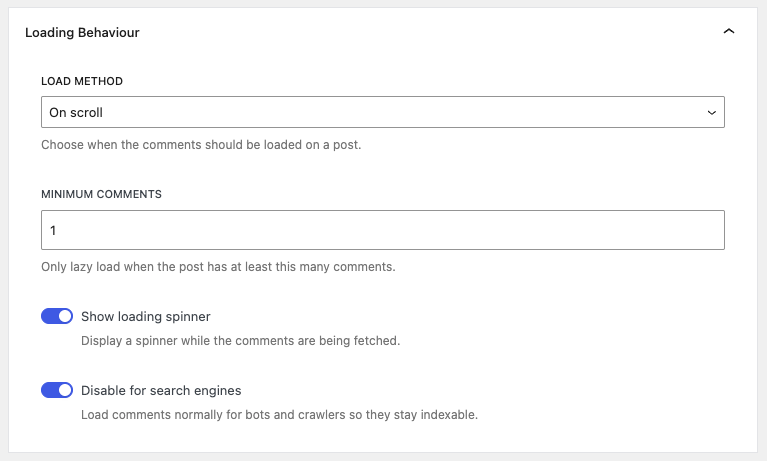
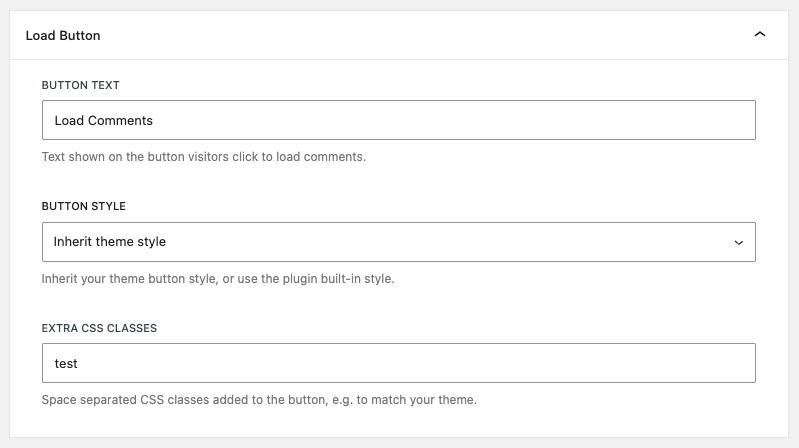
Improve: Update tabs

diff --git a/index.md b/index.md
@@ -31,6 +31,6 @@ features:
   - title: Lazy Load for Comments
     details: "The Cure for Slow Comments: Documentation for Lazy Load for Comments"
     icon: <svg id="fi_4081342" enable-background="new 0 0 512 512" height="30" viewBox="0 0 512 512" width="30" xmlns="http://www.w3.org/2000/svg"><g><path d="m436.31 107.425c-48.24-37.44-112.28-58.06-180.31-58.06-6.2 0-12.37.17-18.5.51-61.08 3.39-117.97 23.52-161.81 57.55-48.81 37.88-75.69 88.42-75.69 142.31 0 48.61 22.29 95.16 62.89 131.62-11.95 27.81-27.25 50.79-45.52 68.36-2.18 2.1-2.89 5.3-1.8 8.12 1.1 2.82 3.78 4.71 6.8 4.79.21 0 .81.01 1.78.01 10.59 0 64.83-1.51 124.87-30.79 28.04 10.11 57.71 16.05 88.47 17.75 6.13.34 12.3.51 18.51.51 68.03 0 132.07-20.63 180.31-58.07 48.81-37.88 75.69-88.42 75.69-142.3 0-53.89-26.88-104.43-75.69-142.31z" fill="#ff3e7a"></path><g><g><path d="m398.32 255.999c0 20.68-16.799 37.5-37.453 37.5-4.375 0-8.579-.75-12.484-2.14-14.532-5.16-24.969-19.06-24.969-35.36s10.437-30.2 24.969-35.36c3.905-1.39 8.11-2.14 12.484-2.14 20.654 0 37.453 16.82 37.453 37.5z" fill="#fff"></path><path d="m398.32 255.999c0 20.68-16.799 37.5-37.453 37.5-4.375 0-8.579-.75-12.484-2.14 14.532-5.16 24.969-19.06 24.969-35.36s-10.437-30.2-24.969-35.36c3.905-1.39 8.11-2.14 12.484-2.14 20.654 0 37.453 16.82 37.453 37.5z" fill="#dcecf4"></path></g><g><path d="m188.586 255.996c0 20.68-16.799 37.5-37.453 37.5-4.375 0-8.579-.75-12.484-2.14-14.532-5.16-24.969-19.06-24.969-35.36s10.437-30.2 24.969-35.36c3.905-1.39 8.11-2.14 12.484-2.14 20.654 0 37.453 16.82 37.453 37.5z" fill="#fff"></path><path d="m188.586 255.996c0 20.68-16.799 37.5-37.453 37.5-4.375 0-8.579-.75-12.484-2.14 14.532-5.16 24.969-19.06 24.969-35.36s-10.437-30.2-24.969-35.36c3.905-1.39 8.11-2.14 12.484-2.14 20.654 0 37.453 16.82 37.453 37.5z" fill="#dcecf4"></path></g><g><path d="m293.455 255.996c0 20.68-16.799 37.5-37.453 37.5-4.375 0-8.579-.75-12.484-2.14-14.532-5.16-24.969-19.06-24.969-35.36s10.437-30.2 24.969-35.36c3.905-1.39 8.11-2.14 12.484-2.14 20.654 0 37.453 16.82 37.453 37.5z" fill="#fff"></path><path d="m293.455 255.996c0 20.68-16.799 37.5-37.453 37.5-4.375 0-8.579-.75-12.484-2.14 14.532-5.16 24.969-19.06 24.969-35.36s-10.437-30.2-24.969-35.36c3.905-1.39 8.11-2.14 12.484-2.14 20.654 0 37.453 16.82 37.453 37.5z" fill="#dcecf4"></path></g></g><path d="m512 249.735c0 53.88-26.88 104.42-75.69 142.3-48.24 37.44-112.28 58.07-180.31 58.07-6.21 0-12.38-.17-18.51-.51 61.08-3.39 117.98-23.53 161.82-57.56 48.81-37.88 75.69-88.42 75.69-142.3 0-53.89-26.88-104.43-75.69-142.31-43.84-34.03-100.73-54.16-161.81-57.55 6.13-.34 12.3-.51 18.5-.51 68.03 0 132.07 20.62 180.31 58.06 48.81 37.88 75.69 88.42 75.69 142.31z" fill="#b2006e"></path></g></svg>
-    link: ./lazy-load-for-comments/general
+    link: ./lazy-load-for-comments/loading-behaviour
 ---
 

diff --git a/lazy-load-for-comments/loading-behaviour.md b/lazy-load-for-comments/loading-behaviour.md
@@ -1,12 +1,12 @@
 ---
-title: General Settings
+title: Loading Behaviour
 ---
 
-# General Settings
+# Loading Behaviour
 
-The General Settings section controls how and when comments are lazy loaded on your posts and pages. You can find it under **Comments → Lazy Load** in your WordPress admin, on the **General** tab.
+The Loading Behaviour section controls how and when comments are lazy loaded on your posts and pages. You can find it under **Comments → Lazy Load** in your WordPress admin, inside the **Loading Behaviour** section of the settings page.
 
-[![General Settings](/lazy-load-for-comments/general-settings.png)](/lazy-load-for-comments/general-settings.png)
+[![Loading Behaviour](/lazy-load-for-comments/loading-behaviour.png)](/lazy-load-for-comments/loading-behaviour.png)
 
 ## Load Method
 
@@ -18,7 +18,7 @@ This is a dropdown (select) input with three options:
 Comments are loaded automatically as soon as the visitor scrolls down close to the comments area. This is the default option and gives the smoothest experience.
 
 ### On Button Click
-Comments are not loaded until the visitor clicks the **Load Comments** button. The button can be customised on the [Load Button Settings](./load-button) tab.
+Comments are not loaded until the visitor clicks the **Load Comments** button. The button can be customised in the [Load Button](./load-button) section.
 
 ### Disabled (load normally)
 Lazy loading is turned off completely. Comments load together with the rest of the page, exactly like the default WordPress behaviour.

diff --git a/lazy-load-for-comments/load-button.md b/lazy-load-for-comments/load-button.md
@@ -4,12 +4,12 @@ title: Load Button Settings
 
 # Load Button Settings
 
-The Load Button settings let you customise the **Load Comments** button. You can find them under **Comments → Lazy Load** in your WordPress admin, on the **Load Button** tab.
+The Load Button settings let you customise the **Load Comments** button. You can find them under **Comments → Lazy Load** in your WordPress admin, inside the **Load Button** section of the settings page.
 
 [![Load Button Settings](/lazy-load-for-comments/load-button.png)](/lazy-load-for-comments/load-button.png)
 
 ::: info Note
-These settings only take effect when the **Load Method** on the [General Settings](./general) tab is set to **On Button Click**. With the *On Scroll* method there is no button to customise.
+These settings only take effect when the **Load Method** in the [Loading Behaviour](./loading-behaviour) section is set to **On Button Click**. With the *On Scroll* method there is no button to customise.
 :::
 
 ## Button Text

diff --git a/lazy-load-for-comments/cache.md b/lazy-load-for-comments/cache.md
@@ -4,7 +4,7 @@ title: Cache Management
 
 # Cache Management
 
-The Cache section lets you control how Lazy Load for Comments stores the rendered comments markup, and gives you a quick way to clear it. You can find it under **Comments → Lazy Load** in your WordPress admin, on the **General** tab.
+The Cache section lets you control how Lazy Load for Comments stores the rendered comments markup, and gives you a quick way to clear it. You can find it under **Comments → Lazy Load** in your WordPress admin, inside the **Cache** section of the settings page.
 
 [![Cache Management](/lazy-load-for-comments/cache.png)](/lazy-load-for-comments/cache.png)
 

diff --git a/lazy-load-for-comments/developer-docs.md b/lazy-load-for-comments/developer-docs.md
@@ -312,7 +312,7 @@ script to fetch the comments on click or scroll.
 
 Clears every cached comments-block transient.
 
-* **Permission:** `manage_options`.
+* **Permission:** routed through `DuckDev\LazyComments\Utils\Permission::has_access()` — defaults to `manage_options`, filterable via [`lazy_load_for_comments_capability`](#lazy-load-for-comments-capability) and [`lazy_load_for_comments_has_access`](#lazy-load-for-comments-has-access).
 * **Response (200):** `{ "success": true, "message": "Comments cache cleared." }`
 
 ## Placeholder helper
